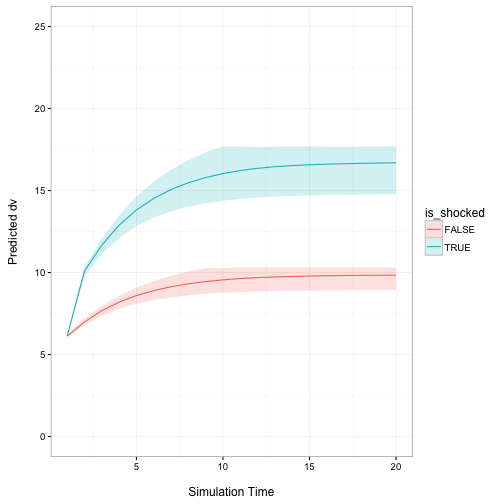
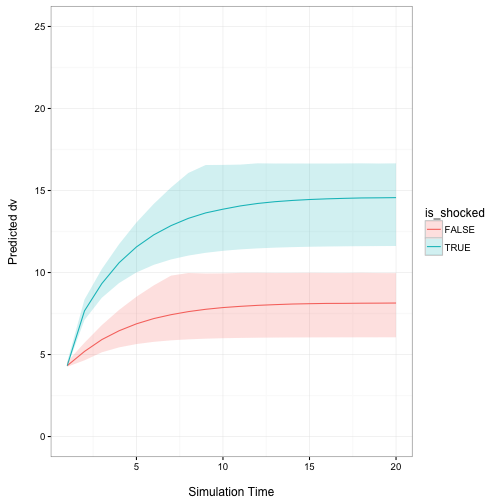
minor readme

Changed region(s): [[0.119, 0.2679, 0.8036, 0.744]]

diff --git a/README.md b/README.md
@@ -3,20 +3,21 @@ ecmSim
 
 [![Build Status](https://travis-ci.org/christophergandrud/ecmSim.svg?branch=master)](https://travis-ci.org/christophergandrud/ecmSim)
 
-Early stage development version of a *possible* R package for simulating 
-quantities of interest from Error Correction Models (ECM).
+Early stage development version of a *possible* R package for simulating
+quantities of interest from Error Correction Models (ECM). This includes
+interactions.
 
 Use the `ecm_builder` function to simulated the quantities of interest and the
 `ecm_plot` function (NOT COMPLETED to plot the results.
 
 # Example
 
-Imagine we have a two time series `dv` and `iv`. We want to estimate the 
-relationship between these two series using an error correction model. 
+Imagine we have a two time series `dv` and `iv`. We want to estimate the
+relationship between these two series using an error correction model.
 
 Our estimation model could look like this (assuming we have already created
 the change and lag variables and they are each in their own vectors or equal
-length): 
+length):
 
 
 
@@ -26,7 +27,7 @@ length):
 m1 <- lm(d_dv ~ lag_dv + lag_iv + d_iv)
 ```
 
-We then create a data frame of fitted values for the baseline scenario to 
+We then create a data frame of fitted values for the baseline scenario to
 simulate.
 
 
@@ -36,14 +37,14 @@ baseline_scen <- data.frame(lag_dv = mean(lag_dv, na.rm = TRUE),
 ```
 
 We also specify the "shock" to `iv`, the effects of which we want to compare to
-the baseline. 
+the baseline.
 
 
 ```r
 iv_shock <- sd(d_iv, na.rm = TRUE)
 ```
 
-We now have all of the information we need to simulate the effects estimated in 
+We now have all of the information we need to simulate the effects estimated in
 the ECM over 20 periods:
 
 
@@ -55,7 +56,7 @@ m1_sims <- ecm_builder(obj = m1, lag_iv = 'lag_iv', d_iv = 'd_iv',
 
 ```
 ## lag_dv not supplied. Assuming first column of baseline_df is the lagged dependent variable:
-## 
+##
 ##       lag_dv
 ```
 
@@ -66,15 +67,15 @@ head(m1_sims)
 
 ```
 ##   time__   qi_min qi_median   qi_max is_shocked
-## 1      1 6.094381  6.116984 6.219926      FALSE
-## 2      2 6.780677  6.990080 7.212796      FALSE
-## 3      3 7.359268  7.673848 7.973042      FALSE
-## 4      4 7.782659  8.195578 8.567472      FALSE
-## 5      5 8.093274  8.596204 9.073168      FALSE
-## 6      6 8.321153  8.899521 9.477739      FALSE
+## 1      1 4.253231  4.319776 4.553804      FALSE
+## 2      2 4.647514  5.189331 5.718962      FALSE
+## 3      3 5.135769  5.910315 6.793774      FALSE
+## 4      4 5.436260  6.450748 7.721647      FALSE
+## 5      5 5.638139  6.871405 8.522670      FALSE
+## 6      6 5.773766  7.192413 9.214185      FALSE
 ```
 
-The simulated quantity of interest is the value of `dv` at each time point 
+The simulated quantity of interest is the value of `dv` at each time point
 (i.e. lagged `dv` + the change in `dv` from the previous period).
 
 We can plot the results (note, in the future there will be a `ecm_plot` function
@@ -82,11 +83,11 @@ to simplify this process):
 
 
 ```r
-ggplot(m1_sims, aes(time__, qi_median, group = is_shocked, 
+ggplot(m1_sims, aes(time__, qi_median, group = is_shocked,
                     colour == is_shocked, fill = is_shocked)) +
     geom_line(aes(color = is_shocked)) +
     geom_ribbon(aes(ymin = qi_min, ymax = qi_max), alpha = 0.2) +
-    scale_y_continuous(limits = c(0, 25)) + 
+    scale_y_continuous(limits = c(0, 25)) +
     xlab('\nSimulation Time') + ylab('Predicted dv\n') +
     theme_bw()
 ```
@@ -94,5 +95,17 @@ ggplot(m1_sims, aes(time__, qi_median, group = is_shocked,
 ![plot of chunk non-interactive-plot](figure/non-interactive-plot-1.png)
 
 
+# To-do
 
+- [ ] Create `ecm_plot` function.
 
+- [ ] Interaction example.
+
+# See Also
+
+- See [Warner (2016)](http://static1.squarespace.com/static/5555d102e4b01c8e639df2ca/t/57dcad86d482e9d2d5628489/1474080150275/Warner-Conditional-Relationships.pdf)
+for details.
+
+- King, Gary, Michael Tomz, and Jason Wittenberg. 2000. "Making the Most of
+Statistical Analyses: Improving Interpretation and Presentation." American
+Journal of Political Science 44(2): 341-55.
